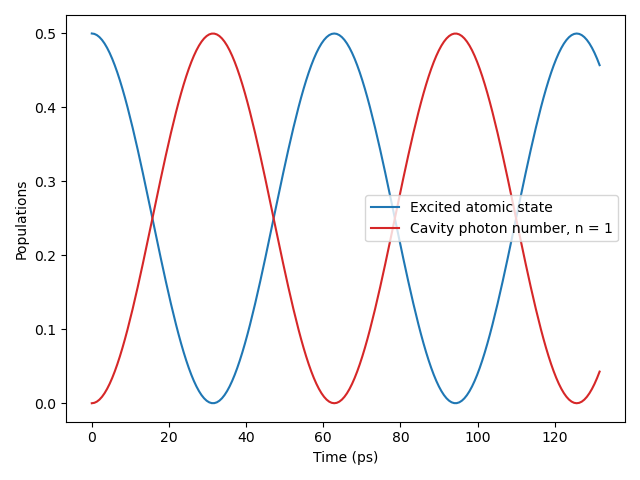
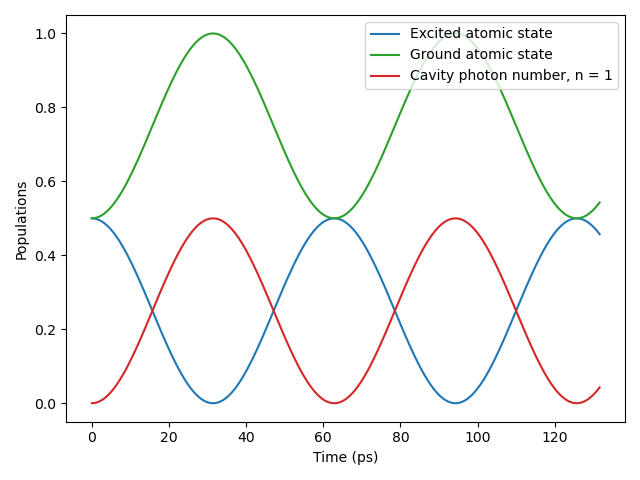
Plots the ground state for the JCM closed evolution populations.

diff --git a/Research Project/Code/JCM_Closed_eg.py b/Research Project/Code/JCM_Closed_eg.py
@@ -37,7 +37,7 @@ H = 0.5 * w * s_z + w * (adag * a + 0.5) + g * (adag * s_lower + a * s_raise)
 
 ############################ SIMULATION ###################################
 n1_pop = q.tensor(q.qeye(2), basis_qho_1 * basis_qho_1.dag())  # QHO pop |n=1>
-e_ops = [s_raise * s_lower, n1_pop]
+e_ops = [s_raise * s_lower, n1_pop, s_lower * s_raise]
 
 sim = TLSQHOSimulator(H, psi0, e_ops=e_ops, times=tlist)
 results = sim.evolve()
@@ -59,10 +59,16 @@ sim.plot(
             "colour": "tab:blue",
         },
         {
+            "y_data": results_expt[2],
+            "label": "Ground atomic state",
+            "colour": "tab:green",
+        },
+        {
             "y_data": results_expt[1],
             "label": "Cavity photon number, n = 1",
             "colour": "tab:red",
         },
+
     ],
     y_label="Populations",
     savepath="JCM",
